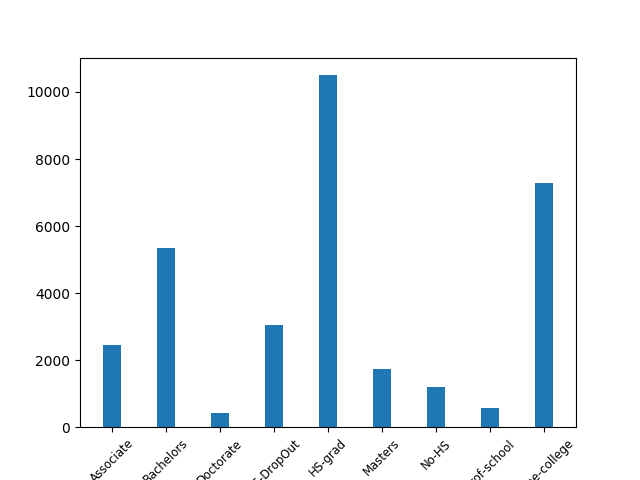
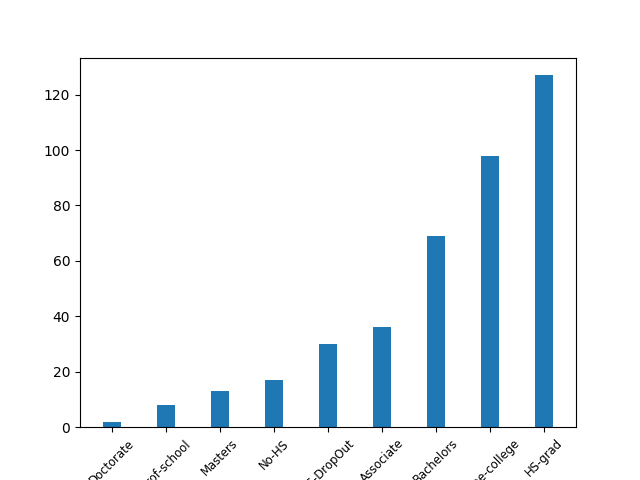
Add files via upload

diff --git a/Prep_Capstone.py b/Prep_Capstone.py
@@ -1,6 +1,7 @@
 import numpy as np
 import pandas as pd
 import matplotlib.pyplot as plt
+import operator
 
 # adult = '/home/abew16/python practice/adult.csv'
 adult_local = 'C:\Users\Abe\Google Drive\Python\Data_Science\Data_Sets\Adult.csv'
@@ -20,51 +21,77 @@ print('Columns:')
 for col in df.columns:
     print('{}').format(col)
 
+raw_input('\nCreate Sample Data Frame')
+df_400 = df.sample(n=400)
+df_400.to_csv('C:\Users\Abe\Google Drive\Python\Data_Science\Data_Sets\Adult_Trimmed.csv')
+usecols = df.columns
+df_400 = pd.read_csv('C:\Users\Abe\Google Drive\Python\Data_Science\Data_Sets\Adult_Trimmed.csv', usecols=usecols)
+print ('There are {} rows now').format(df_400.shape[0])
+
 ## Show a Distrubtion of values for Age
 raw_input('\nDistrubtion of Age:')
 cols = ['Age']
 print (df[cols].describe())
 
+raw_input('\nDistrubtion of Age for sample:')
+cols = ['Age']
+print (df_400[cols].describe())
+
+## Create a box plot
 raw_input('\nBox Plot:')
-plt.boxplot(df['Age'])
+plt.figure(figsize=(10,5))
+plt.subplot(1, 2, 1)
+plt.boxplot(df_400['Age'])
+plt.title('Sample')
 plt.ylabel('Age')
 plt.yticks([10,20,30,40,50,60,70,80,90,100],[10,20,30,40,50,60,70,80,90,100])
 plt.ylim((0,100))
-plt.savefig('Age Box Plot.png')
-# plt.show()
 
-raw_input('\nEducation Levels:')
+plt.subplot(1, 2, 2)
+plt.boxplot(df['Age'])
+plt.ylabel('Age')
+plt.title('Population')
+plt.yticks([10,20,30,40,50,60,70,80,90,100],[10,20,30,40,50,60,70,80,90,100])
+plt.ylim((0,100))
+plt.savefig('C:\Users\Abe\Google Drive\Python\Data_Science\Charts\Prep_Capstone\Age Box Plot.png')
+plt.show()
+
+
 ## Create buckets for people who didn't go to HS or dropped out
 no_hs = ['1st-4th', '5th-6th', '7th-8th', 'Preschool']
 hs_drop_out = ['9th', '10th', '11th', '12th']
 associate = ['Assoc-acdm', 'Assoc-voc']
-df = df.replace(no_hs, 'No-HS')
-df = df.replace(hs_drop_out, 'HS-DropOut')
-df = df.replace(associate, 'Associate')
+df_400 = df_400.replace(no_hs, 'No-HS')
+df_400 = df_400.replace(hs_drop_out, 'HS-DropOut')
+df_400 = df_400.replace(associate, 'Associate')
 
 ## Check buckets and view unique values for Education
-education_names = []
-for col in df.columns:
+raw_input('\nEducation Levels:')
+for col in df_400.columns:
     if col == 'Education':
-        unique_values = sorted(df[col].unique())
-        education_names.append(unique_values)
-        print('Education : {}').format(unique_values)
-
-## Create bar chart for Education
-x_length = np.arange(len(df['Education'].unique()))
-df_grouped = df.groupby('Education').count()
+        education_names = sorted(df_400[col].unique())
+        print('Education : {}').format(education_names)
+df_grouped = df_400.groupby('Education').count()
+## Get Amounts for each education value
 education_values = []
 for index, row in df_grouped.iterrows():
         education_values.append(row['Age'])
-plt.bar(x_length, education_values, width=.35, align='center')
-plt.xticks(x_length, education_names[0], rotation=45, fontsize='small')
-plt.savefig('Education Bar Chart.png')
+## Create a dictionary with the Education Value Names as keys and amounts as values
+education_dictionary = dict(zip(education_names, education_values))
+## Sorted list of tuples
+sorted_education = sorted(education_dictionary.items(), key=operator.itemgetter(1))
+
+# Create bar chart for Education
+x_length = range(len(sorted_education))
+education_values = zip(*sorted_education)[1]
+print (education_values)
+education_names = zip(sorted_education)[0]
+# plt.bar(x_length, education_values, width=.35, align='center')
+# plt.xticks(x_length, education_names, rotation=45, fontsize='small')
+# plt.savefig('C:\Users\Abe\Google Drive\Python\Data_Science\Charts\Prep_Capstone\Education Bar Chart.png')
 # plt.show()
 
 raw_input('\nENTER')
 df_filtered = df[df['Income']=='>50K']
 df__grouped = df_filtered.groupby('Education').count()
 df_percentages = df__grouped / df_grouped
-
-
-
